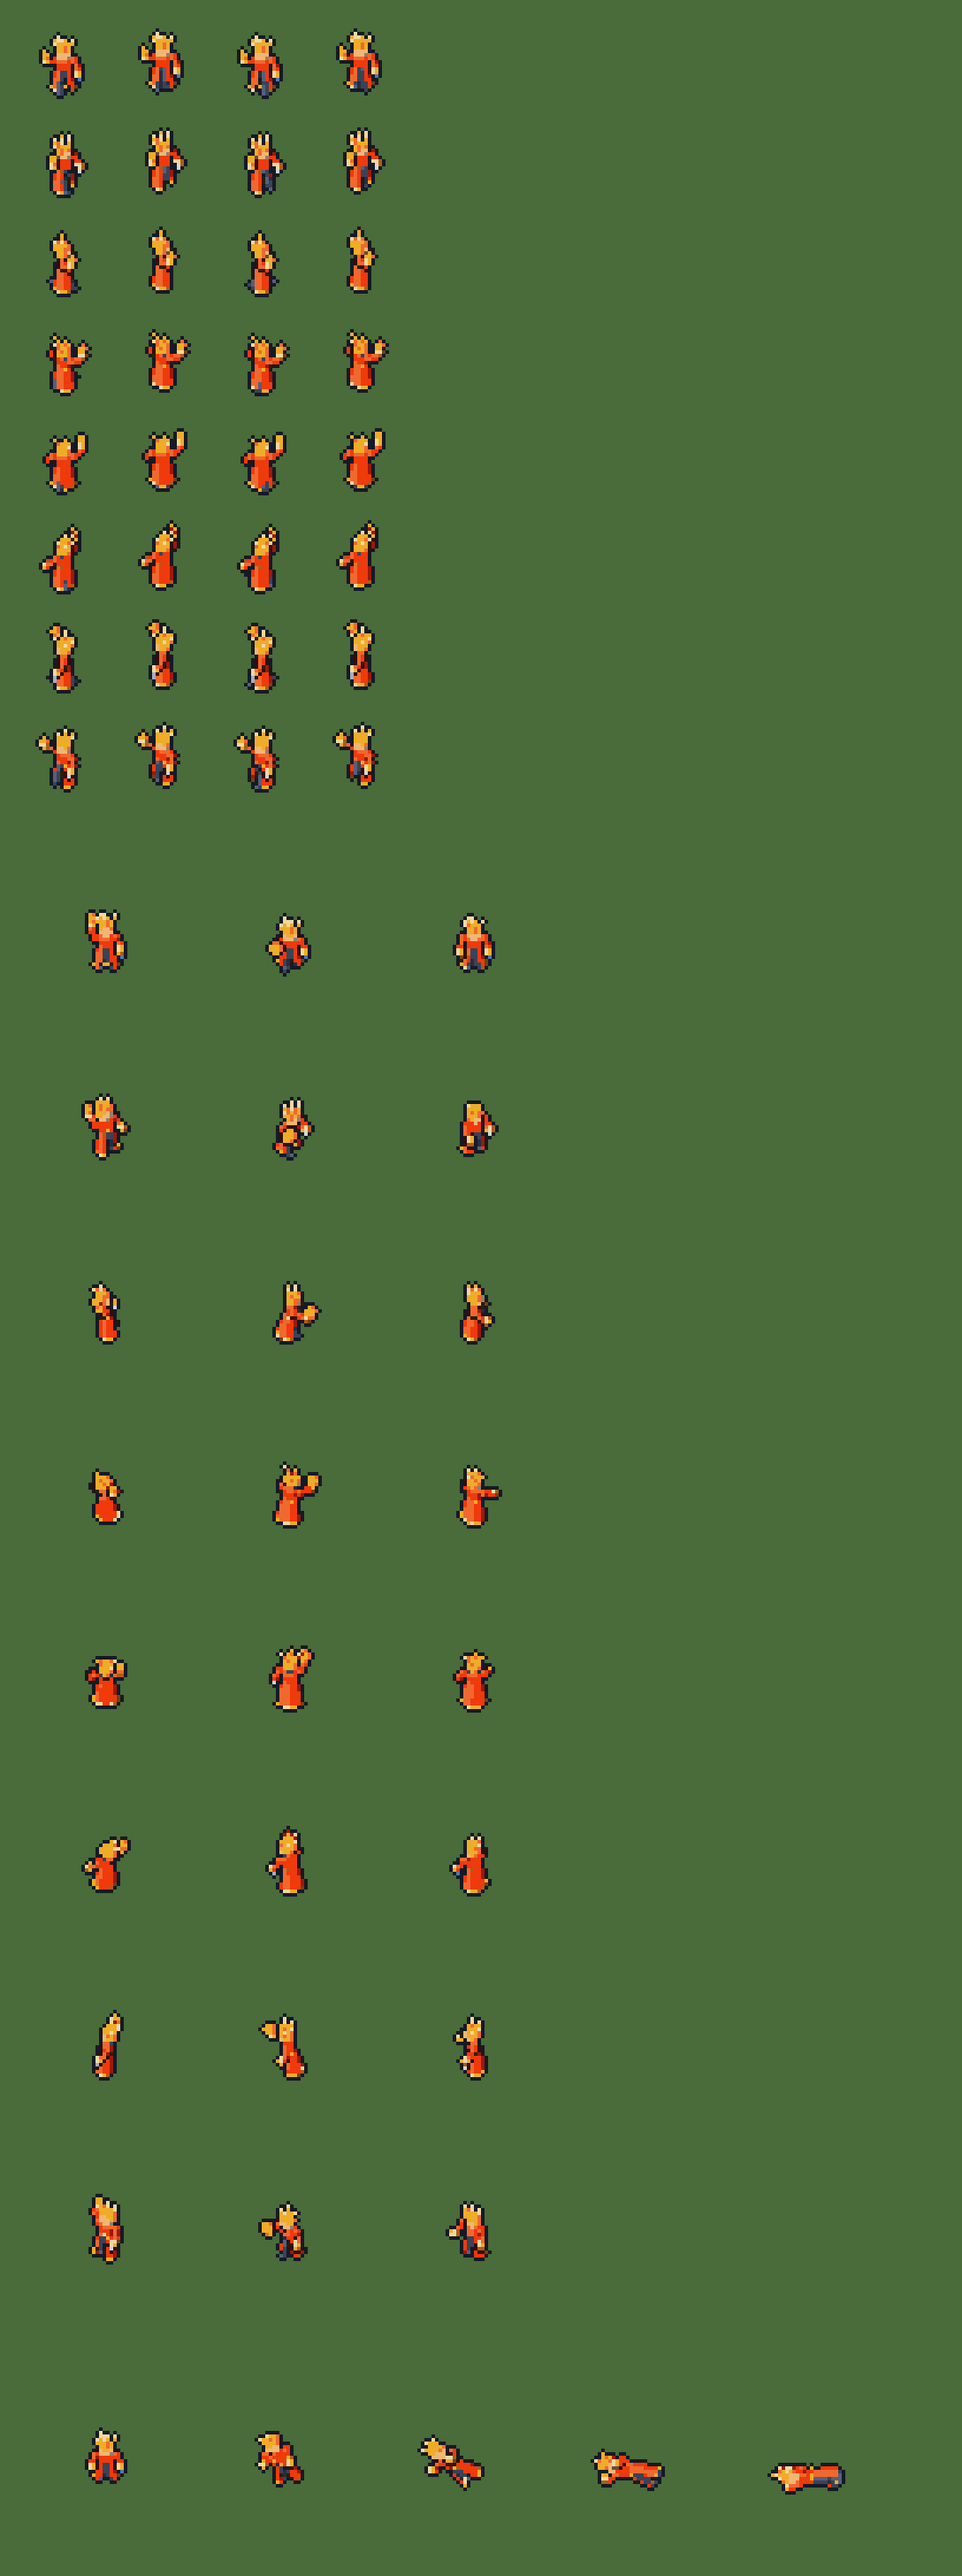
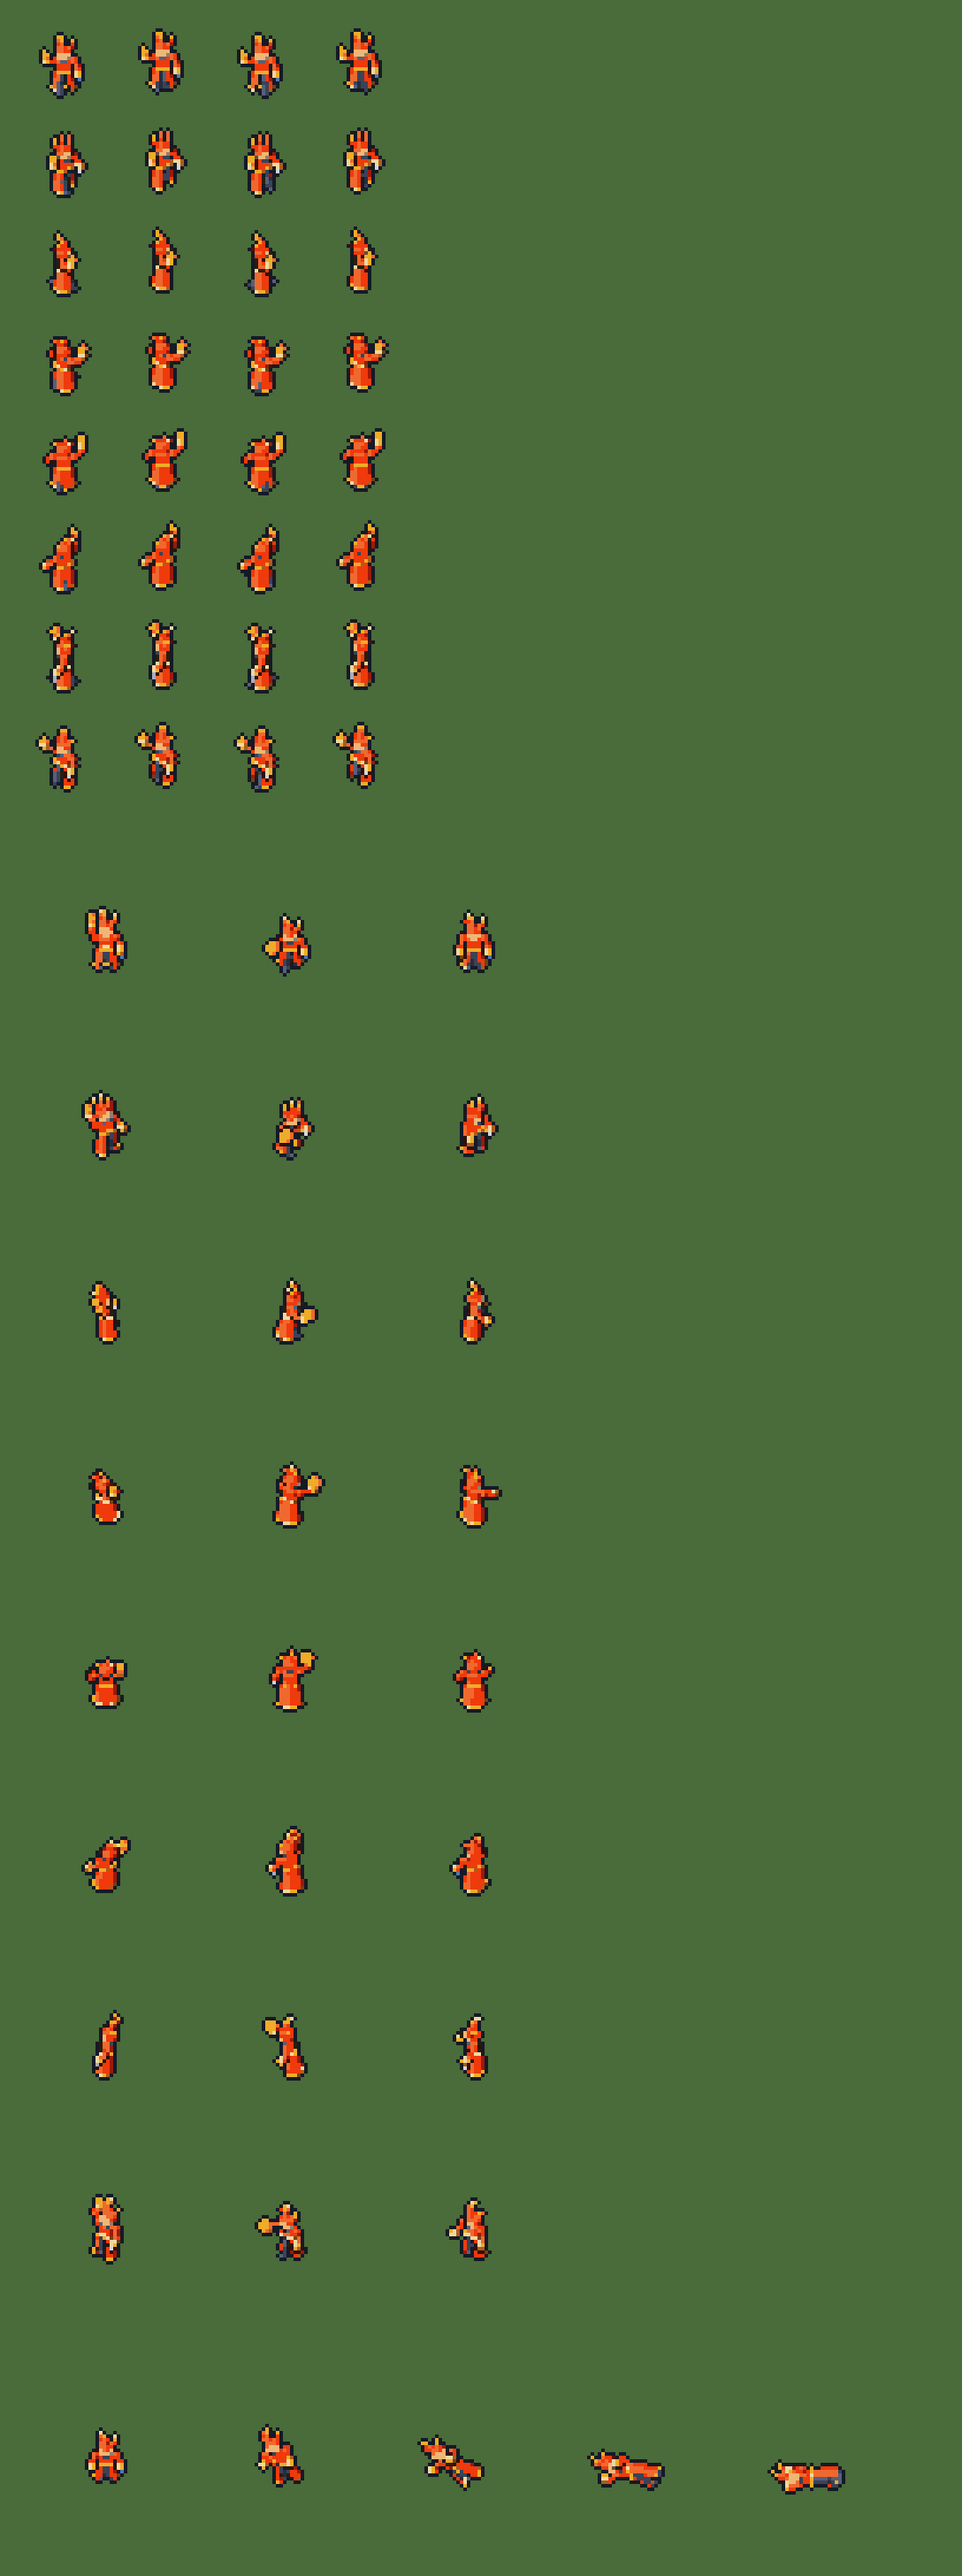
이그니스 불꽃 머리·화염구 — 비대칭 세 갈래, 발사 화염구를 몸 밖으로, 앞 목깃·허리띠 보이게(Gemini 4차 «상»)
Gemini 4차의 이그니스 «상» 지적(불꽃 머리가 노란 왕관·성게, 공격 f2 화염구가 로브에 묻힘)과
먼저 고칠 5가지에 든 목깃·허리띠를 고쳤다. 사용자가 «상» 지적 전부를 고르게 했다(2026-10-19).
허리띠는 로브 자락 원뿔 안에 묻혀 있어서 자락보다 크게 키웠다.

Claude-Session: https://claude.ai/code/session_01XsJzvSywTfhUgL72Hqiuhg

diff --git a/tools/art/ignis.py b/tools/art/ignis.py
@@ -17,13 +17,14 @@ BASE = {"skin": S.BASE["skin"],
         "robe": ["300f0a", "9b1a0a", "ef3a0c", "ef3a0c", "ef692f"],
         "char": ["151a26", "262d3d", "3a4357", "3a4357", "56607a"],  # 숯빛 안감·바지·장화·깃
         "gold": ["2a1d0d", "724113", "ab5c1c", "efac28", "efd8a1"],
-        "flame": ["9b1a0a", "ef692f", "ef692f", "efac28", "efac28"],  # 불꽃 머리 뿌리·화염구 겉
+        "ember": ["550f0a", "9b1a0a", "ef3a0c", "ef3a0c", "ef692f"],  # 불꽃 머리 뿌리
+        "flame": ["9b1a0a", "ef692f", "ef692f", "efac28", "efac28"],  # 불꽃 머리 가운데·화염구 겉
         "flare": ["ef692f", "efac28", "efac28", "efd8a1", "efd8a1"],  # 불꽃 끝·화염구 속
         "frost": ["262d3d", "4f78ad", "a4aec2", "d0d6e0", "d0d6e0"]}
 MATS = list(BASE)
 PARTS = ["leg", "torso", "head", "arm", "fireball", "frost"]
 SIZES = (24,)
-TAG = f"m5 ppu{H.PPU24} ignis1"  # 형체 크기를 바꾸면 이 꼬리표도 바꾼다(fit.json)
+TAG = f"m5 ppu{H.PPU24} ignis2"  # 형체 크기를 바꾸면 이 꼬리표도 바꾼다(fit.json)
 
 R_ARM = dict(sh_r=100, el_r=60, ab_r=1.3)  # 화염구를 머리 옆으로 든다. 머리 위로 들면(sh_r 150, ab_r 0.6) 노란 화염구가 불꽃 머리와 붙어 한 덩어리였다
 L_ARM = dict(sh_l=20, el_l=30, ab_l=0.5)  # 서리를 흘리는 내린 손
@@ -32,13 +33,17 @@ WALK = [dict(w, **R_ARM, **L_ARM) for w in H.WALK]
 # 공격은 원거리(S121 사거리 4): 화염구를 머리 뒤로 젖혔다가(준비) 반 발 내디디며 앞으로 던지고(발사, 가운데가 타격 프레임, 화염구 1.5배)
 # 빈손으로 거둔다(마무리, 화염구 없음). 마무리에서 화염구를 지워 «던졌다»가 읽히게 했다
 ATTACK = [dict(H.POSE, **L_ARM, sh_r=175, el_r=70, ab_r=0.5, lean=-6),
-          dict(H.POSE, **L_ARM, sh_r=85, el_r=0, ab_r=0.35, lean=10, hip_r=14, knee_r=10, hip_l=-10, knee_l=10, ball=1.5),
+          # 발사는 팔을 바깥으로 45° 벌려 화염구를 몸 실루엣 밖에 둔다. 앞으로만 뻗으면(ab_r 0.35) 남쪽 방향들에서 화염구가 주홍 로브에 묻혀
+          # 배가 불룩한 것처럼 보였다(Gemini 4차 2026-10-19)
+          dict(H.POSE, **L_ARM, sh_r=85, el_r=0, ab_r=1.0, lean=10, hip_r=14, knee_r=10, hip_l=-10, knee_l=10, ball=1.5),
           dict(H.POSE, **L_ARM, sh_r=55, el_r=15, ab_r=0.4, lean=5, ball=0)]
 FALL = [dict(H.FALL[0], **L_ARM, ball=0)] + [dict(f, ball=0, frost=0) for f in H.FALL[1:]]
 ANIMS = {"idle": [IDLE], "walk": WALK, "attack": ATTACK, "fall": FALL}
-# 불꽃 머리: (뿌리, 끝) 윗몸 좌표. 정수리에서 위·뒤로 솟고 바깥 것은 옆으로 벌어진다
-LOCKS = [((-0.07, 0.03, 0.88), (-0.15, -0.06, 1.06)), ((0.0, 0.05, 0.9), (0.02, -0.04, 1.12)),
-         ((0.07, 0.03, 0.88), (0.16, -0.05, 1.05)), ((-0.03, -0.06, 0.88), (-0.06, -0.16, 1.03)), ((0.04, -0.06, 0.88), (0.08, -0.17, 1.02))]
+# 불꽃 머리: (뿌리, 꺾임, 끝) 윗몸 좌표. 높이가 다른 세 갈래가 위로 솟다가 뒤로 휜다. 대칭 다섯 갈래는 정면·뒷면에서
+# 노란 왕관·성게처럼 보였다(Gemini 4차 2026-10-19). 노랑(flare)은 끝에만 둔다
+LOCKS = [((0.0, 0.02, 0.9), (0.03, -0.04, 1.04), (-0.01, -0.1, 1.17)),
+         ((-0.07, 0.02, 0.88), (-0.13, -0.03, 0.97), (-0.15, -0.11, 1.03)),
+         ((0.06, -0.02, 0.89), (0.11, -0.07, 1.0), (0.09, -0.15, 1.08))]
 
 
 def ignis(pose, bob_unit):
@@ -58,17 +63,19 @@ def ignis(pose, bob_unit):
         P += [(R.capsule(G(hip), G(knee), 0.05), m("char"), "leg"), (R.capsule(G(knee), G(ankle), 0.046), m("char"), "leg"),
               (R.ellipsoid(G(ankle + [0, 0.035, -0.005]), (0.042, 0.068, 0.032)), m("char"), "leg")]
     P += [(R.box(U([0, 0, 0.575]), (0.115, 0.072, 0.12), up_r, 0.035), m("robe"), "torso"),
-          (R.box(U([0, 0, 0.47]), (0.12, 0.078, 0.02), up_r), m("gold"), "torso"),  # 보석 허리띠
+          (R.box(U([0, 0, 0.48]), (0.135, 0.105, 0.022), up_r, 0.01), m("gold"), "torso"),  # 보석 허리띠. 로브 자락(앞 반지름 0.096)보다 커야 보인다
           (H.local(U, up_r, opened(lambda q: np.maximum(robe(q), -robe(q, -0.015)))), m("robe"), "torso"),
           (H.local(U, up_r, opened(lambda q: np.maximum(robe(q, -0.015), -robe(q, -0.03)))), m("char"), "torso"),  # 숯빛 안감
           (H.local(U, up_r, opened(lambda q: np.maximum(robe(q, 0.006), q[:, 2] - 0.08))), m("gold"), "torso"),  # 금 단
-          (R.box(U([0, -0.02, 0.71]), (0.085, 0.045, 0.045), up_r, 0.015), m("char"), "torso")]  # 높은 깃
+          (R.box(U([0, -0.02, 0.71]), (0.085, 0.045, 0.045), up_r, 0.015), m("char"), "torso"),  # 높은 깃
+          (R.box(U([0, 0.05, 0.665]), (0.075, 0.035, 0.025), up_r, 0.01), m("char"), "torso")]  # 앞 목깃: 불꽃 머리와 주홍 로브를 가른다(Gemini 4차 2026-10-19)
     P += [(R.ellipsoid(U([0, 0, 0.80]), (0.12, 0.115, 0.125)), m("skin"), "head"),
-          (lambda p: np.maximum(R.ellipsoid(U([0, -0.02, 0.82]), (0.13, 0.125, 0.12))(p), -R.box(U([0, 0.1, 0.77]), (0.09, 0.1, 0.09), up_r)(p)), m("flame"), "head")]
-    for a, b in LOCKS:  # 불꽃 머리: 뿌리는 주황, 끝은 노랑
-        a, b = np.array(a), np.array(b)
-        mid = a + 0.55 * (b - a)
-        P += [(R.capsule(U(a), U(mid), 0.045, 0.03), m("flame"), "head"), (R.capsule(U(mid), U(b), 0.03, 0.01), m("flare"), "head")]
+          (lambda p: np.maximum(R.ellipsoid(U([0, -0.02, 0.82]), (0.13, 0.125, 0.12))(p), -R.box(U([0, 0.1, 0.77]), (0.09, 0.1, 0.09), up_r)(p)), m("ember"), "head")]
+    for a, b, c in LOCKS:  # 뿌리 주홍 → 가운데 주황 → 끝 노랑
+        a, b, c = np.array(a), np.array(b), np.array(c)
+        t = b + 0.6 * (c - b)
+        P += [(R.capsule(U(a), U(b), 0.05, 0.035), m("ember"), "head"), (R.capsule(U(b), U(t), 0.035, 0.022), m("flame"), "head"),
+              (R.capsule(U(t), U(c), 0.022, 0.008), m("flare"), "head")]
     for side, s in (("l", -1), ("r", 1)):  # 팔: 주홍 종 소매, 금 소맷단, 맨손
         sh, el, hd = arms[side]
         P += [(R.ellipsoid(U(sh), (0.07, 0.07, 0.055)), m("robe"), "torso"),

diff --git a/insights/2026-10-19_hero_sprites.md b/insights/2026-10-19_hero_sprites.md
@@ -117,9 +117,21 @@
 - 공격(원거리, 사거리 4): 화염구를 머리 뒤로 젖혔다가(준비) 반 발 내디디며 앞으로 던진다(발사, 화염구 1.5배). 마무리는 빈손으로 거둔다(화염구 없음). 정지로 돌아오면 손 위에 다시 있다.
 - 쓰러짐: 기사 자세를 쓴다. 화염구는 첫 프레임부터, 서리는 둘째 프레임부터 사라진다.
 
+### Gemini 4차 반영(사용자 2026-10-19 «상» 지적 전부)
+
+| 지적 | 고친 것 |
+|---|---|
+| 대칭 다섯 갈래 불꽃 머리가 노란 왕관·성게 | 높이가 다른 세 갈래(가운데 가장 높게)가 위로 솟다가 뒤로 휜다. 뿌리와 머리 덮개는 주홍(`ember`: `550f0a·9b1a0a·ef3a0c·ef3a0c·ef692f`), 가운데는 주황, 노랑은 끝에만 둔다 |
+| 공격 f2 화염구가 남쪽 방향들에서 로브에 묻힘 | 발사 프레임에 팔을 바깥으로 45° 벌린다(ab_r 0.35 → 1.0). 화염구가 몸 실루엣 밖에 서고 바깥 외곽선이 둘린다 |
+| (먼저 고칠 5가지 안) 목깃·허리띠가 안 보임 | 앞 목깃(숯빛)을 더했다. 금 허리띠를 로브 자락보다 크게 키웠다(0.12×0.078 → 0.135×0.105) |
+
+- 꼬리표를 `ignis2`로 올렸다. 캔버스 24px·기준점 (12, 19)는 그대로다.
+- «중»의 «S에서 화염구가 머리 옆에 붙는다»는 사용자가 고른 범위(«상») 밖이라 두었다.
+- (Claude 의견) 머리 뿌리를 주홍으로 바꾸니 불꽃 머리가 로브와 같은 계열이 됐다. 둘을 가르는 것은 앞 목깃 한 줄이다.
+
 ### 약점(검수 때 볼 것)
 
-- 정면에서 불꽃 머리가 노란 왕관처럼 보인다.
+- 정면에서 불꽃 머리가 노란 왕관처럼 보인다(4차 반영 전).
 - 남(정면)에서 화염구가 머리 옆에 붙어 있다. 북·북동에서는 떨어진다.
 - 공격 발사 프레임에서 앞으로 던진 화염구가 남쪽 방향들에서 주홍 로브 위에 겹친다.
 
